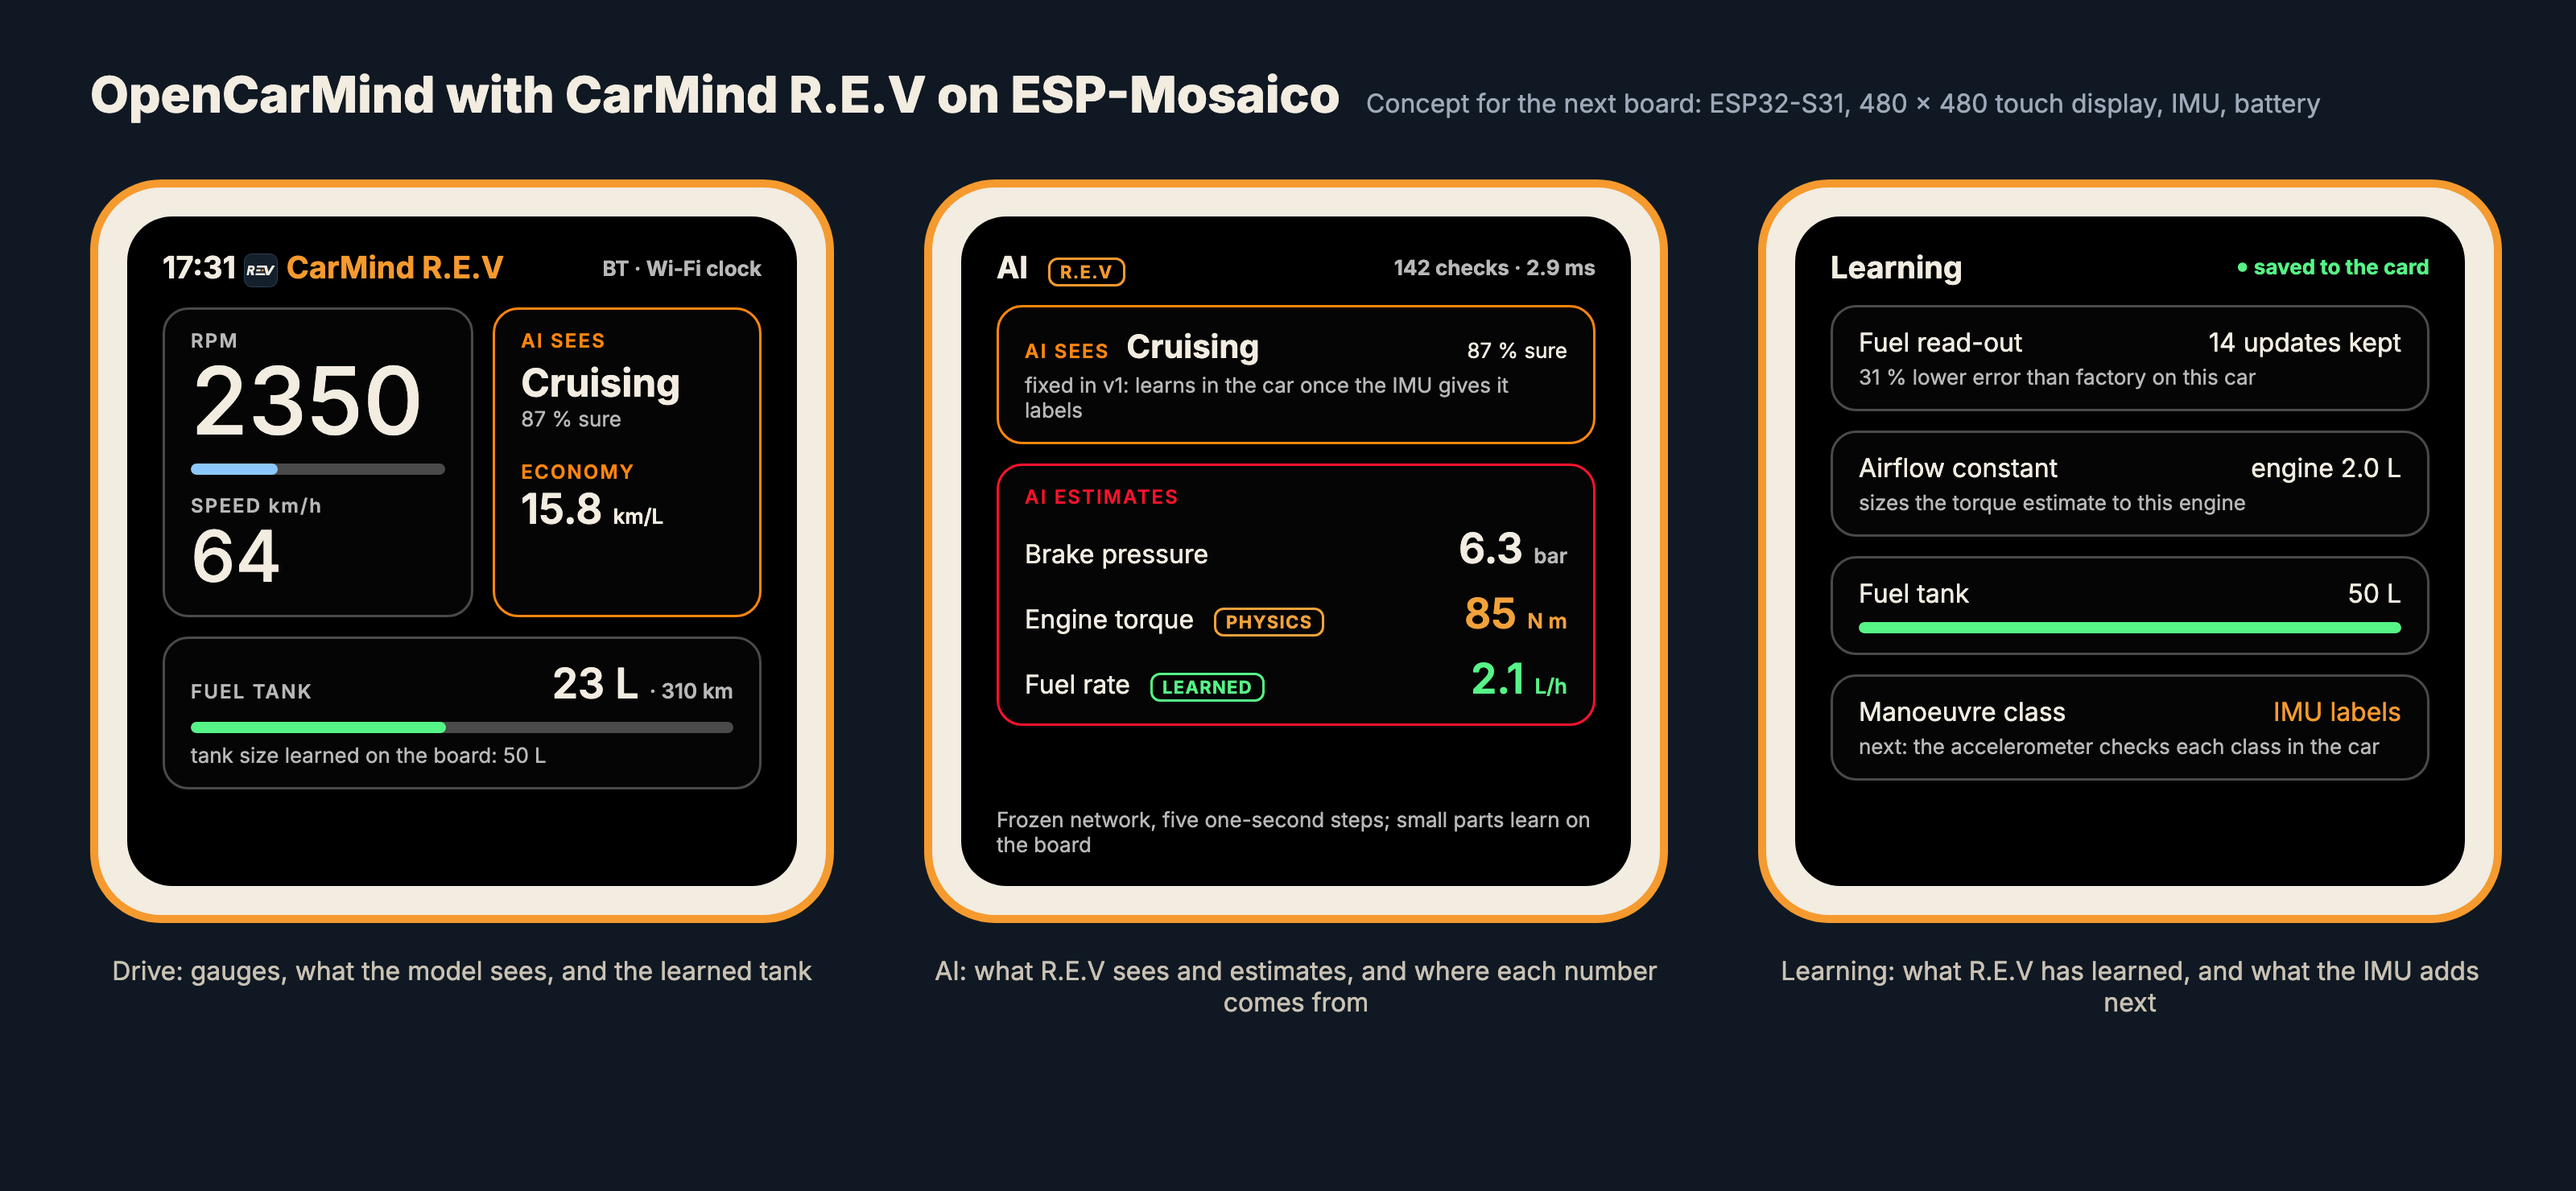
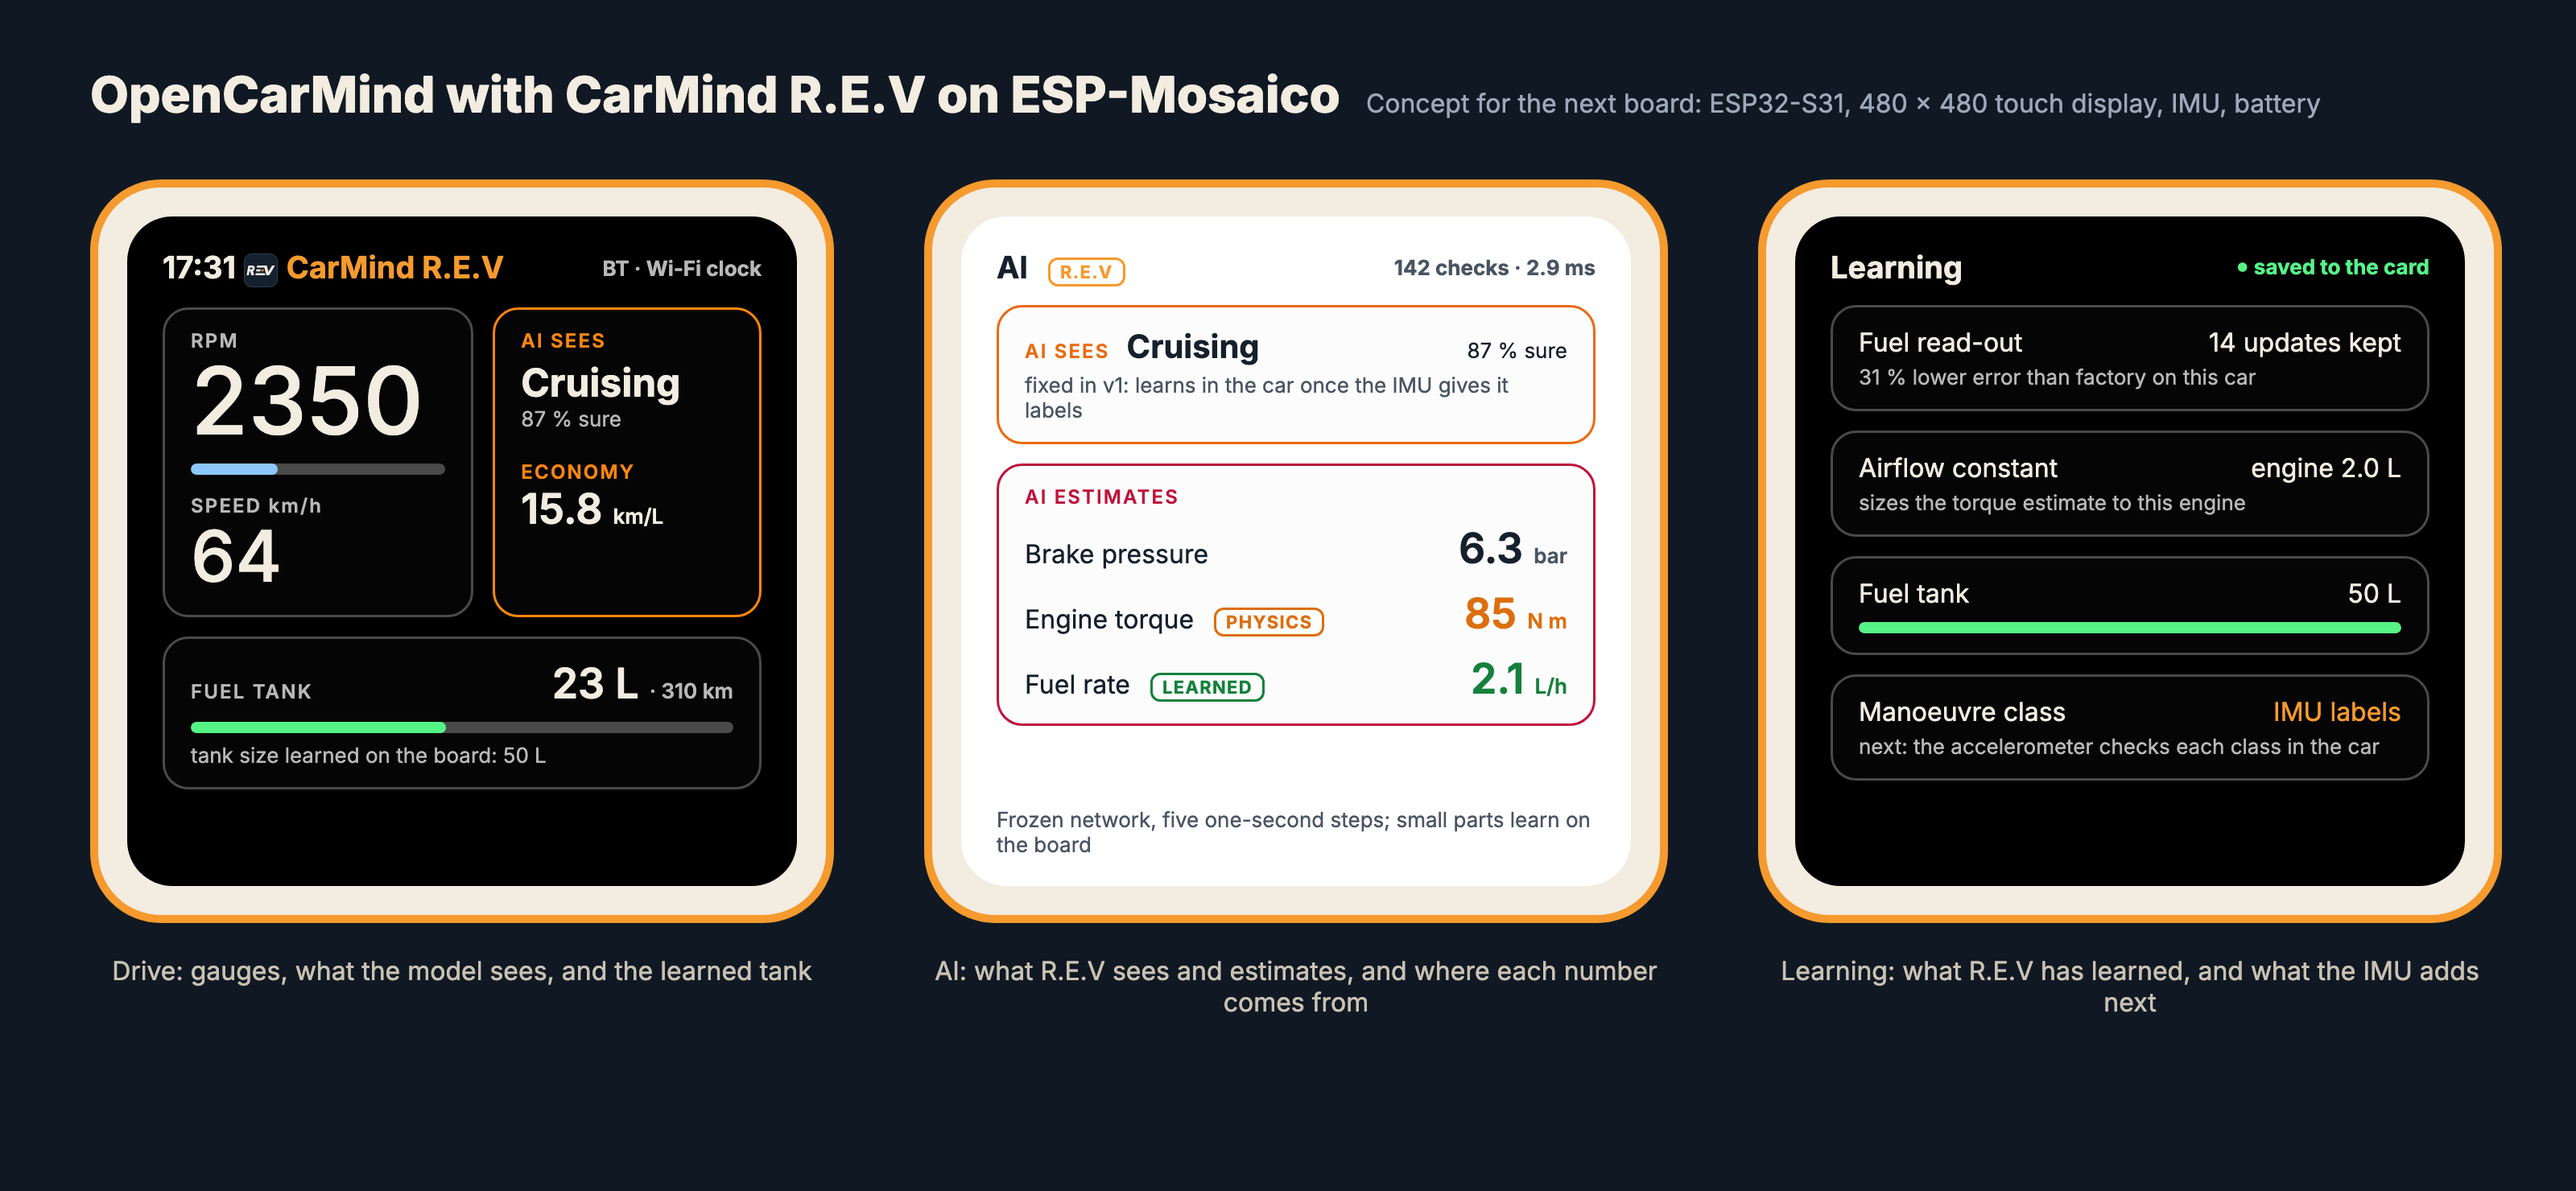
Mosaico concept: one image, screens in dark, light and dark
Claude-Session: https://claude.ai/code/session_01XTAvvNGWPbxk6e88iM5qjd

Changed region(s): [[0.375, 0.1554, 0.6562, 0.7459]]

diff --git a/docs/images/src/mosaico-rev.html b/docs/images/src/mosaico-rev.html
@@ -23,6 +23,28 @@ h1{margin:0;font-size:31px;font-weight:800;display:inline-block}
 .bar{height:7px;border-radius:4px;background:#4A4A4A;margin-top:8px;overflow:hidden}
 .bar i{display:block;height:100%;background:#8CC8FF;border-radius:4px}
 .tag{font-size:11px;font-weight:700;letter-spacing:.06em;border:1.5px solid currentColor;border-radius:6px;padding:1px 6px;margin-left:8px}
+
+/* the middle device in the light theme: the same rules, colours mapped as main/display.c does */
+.theme-light h1{margin:0;font-size:31px;font-weight:800;display:inline-block}
+.theme-light .scr{width:100%;height:100%;box-sizing:border-box;border-radius:28px;background:#FFFFFF;padding:20px 22px;text-align:left;position:relative}
+.theme-light .top{display:flex;justify-content:space-between;align-items:center;font-size:19px;font-weight:700}
+.theme-light .muted{color:#4A5563}
+.theme-light .small{font-size:13px}
+.theme-light .card{background:#FCFCFC;border:1.5px solid #8C8C8C;border-radius:16px;padding:12px 16px;margin-top:12px}
+.theme-light .light{border-color:#EA6A12}
+.theme-light .lbl{font-size:12px;letter-spacing:.09em;color:#4A5563;font-weight:600}
+.theme-light .light .lbl{color:#EA6A12}
+.theme-light .est{border-color:#BE123C}
+.theme-light .est .lbl{color:#BE123C}
+.theme-light .amber{color:#DD6E0E}
+.theme-light .green{color:#15803D}
+.theme-light .orange{color:#F59A2E}
+.theme-light .kv{display:flex;justify-content:space-between;align-items:baseline;margin-top:9px;font-size:16px}
+.theme-light .big{font-size:26px;font-weight:600}
+.theme-light .bar{height:7px;border-radius:4px;background:#8C8C8C;margin-top:8px;overflow:hidden}
+.theme-light .bar i{display:block;height:100%;background:#3B82F6;border-radius:4px}
+.theme-light .tag{font-size:11px;font-weight:700;letter-spacing:.06em;border:1.5px solid currentColor;border-radius:6px;padding:1px 6px;margin-left:8px}
+.theme-light .scr{color:#15202D}
 </style></head><body><div class="wrap">
 <h1>OpenCarMind with CarMind R.E.V on ESP-Mosaico</h1><span class="sub">Concept for the next board: ESP32-S31, 480 × 480 touch display, IMU, battery</span>
 <div class="row">
@@ -39,10 +61,10 @@ h1{margin:0;font-size:31px;font-weight:800;display:inline-block}
     <div class="bar"><i style="width:47%;background:#56F487"></i></div><div class="small muted" style="margin-top:6px">tank size learned on the board: 50 L</div></div>
 </div></div><div class="cap">Drive: gauges, what the model sees, and the learned tank</div></div>
 
-<div class="col"><div class="dev"><div class="scr">
+<div class="col"><div class="dev theme-light"><div class="scr">
   <div class="top"><span>AI <span class="tag orange">R.E.V</span></span><span class="small muted">142 checks · 2.9 ms</span></div>
   <div class="card light"><div class="kv" style="margin-top:0"><span><span class="lbl">AI SEES</span> <b style="font-size:20px;margin-left:6px">Cruising</b></span><span class="small">87 % sure</span></div>
-    <div class="small" style="color:#B8B8B8;margin-top:4px">fixed in v1: learns in the car once the IMU gives it labels</div></div>
+    <div class="small" style="color:#4A5563;margin-top:4px">fixed in v1: learns in the car once the IMU gives it labels</div></div>
   <div class="card est"><div class="lbl">AI ESTIMATES</div>
     <div class="kv"><span>Brake pressure</span><span class="big">6.3 <span class="small muted">bar</span></span></div>
     <div class="kv"><span>Engine torque <span class="tag amber">PHYSICS</span></span><span class="big amber">85 <span class="small">N m</span></span></div>

diff --git a/docs/index.html b/docs/index.html
@@ -213,8 +213,7 @@
 
   <section id="next">
     <h2>Next board: ESP-Mosaico with the ESP32-S31</h2>
-    <figure class="fig"><img src="images/mosaico-rev.png" alt="Concept: OpenCarMind with CarMind R.E.V on ESP-Mosaico, three 480 by 480 screens: drive gauges, what R.E.V sees and estimates, and what it has learned" loading="lazy" width="3200" height="1480"></figure>
-    <figure class="fig"><img src="images/mosaico-rev-light.png" alt="The same three Mosaico screens in the light theme: white screens, navy text, a blue accent, warm oranges and a coral red" loading="lazy" width="3200" height="1480"></figure>
+    <figure class="fig"><img src="images/mosaico-rev.png" alt="Concept: OpenCarMind with CarMind R.E.V on ESP-Mosaico, three 480 by 480 screens in the dark, light and dark themes: drive gauges, what R.E.V sees and estimates, and what it has learned" loading="lazy" width="3200" height="1480"></figure>
     <div class="narrow">
       <p>I have an ESP-Mosaico on order<sup><a href="#r4">[4]</a></sup>. Its ESP32-S31 has two RISC-V cores at 320 MHz with a 128-bit SIMD path, Wi-Fi 6, and Bluetooth 5.4 with both LE and Classic<sup><a href="#r5">[5]</a></sup>. For a car logger that means a 2.16-inch 480 × 480 AMOLED touch screen, Classic adapters such as the OBDLink MX+ within reach, CAN through TWAI and a transceiver, an IMU and magnetometer, a 65 mAh battery to finish the last save, and 16 MB of PSRAM<sup><a href="#r6">[6]</a>,<a href="#r7">[7]</a></sup>. It has no microSD slot, so drives would go to its 128 MB NAND.</p>
       <p>If you build with the ESP32, this is a good board to get, and the port goes faster with more people testing it. The Vision Combo Kit is 59 USD on the <a href="https://store.mosaico.ai/products/esp-mosaico">ESP-Mosaico Store</a> (pre-order, about 15 days to dispatch, as of 3 November 2026). Found something on yours? Open an issue or a pull request on <a href="https://github.com/AlveeeRahman/OpenCarMind">GitHub</a>.</p>

diff --git a/CHANGELOG.md b/CHANGELOG.md
@@ -5,7 +5,7 @@
 A new brand, a screen made for the LCD, and a visible power-off.
 
 - Page 1 labels the coolant CAR TEMP and page 5 labels the chip's own temperature SYS TEMP.
-- Light theme reworked for the LCD: pure white view with tiles drawn by their borders, brand navy text, a light blue accent, warm oranges in place of dark browns, a coral power bar, and vivid section colours on page 5. A light version of the Mosaico concept.
+- Light theme reworked for the LCD: pure white view with tiles drawn by their borders, brand navy text, a light blue accent, warm oranges in place of dark browns, a coral power bar, and vivid section colours on page 5. The Mosaico concept shows its three screens in the dark, light and dark themes.
 - **Brand**: a new night-drive palette (navy, warm ink, cobalt, amber) across the README, the website, the desktop app and its icons, and a sharper vector logo. Banner chips now read ESP32-S3, Bluetooth LE, TinyML, Desktop app and Active Learning.
 - **Screen colours for a backlit LCD**: the dark theme is pure black, because any tint in the background glows through the backlight. Text is 4.5:1 or more on every background in both themes. Page 5 gives each of its seven sections its own colour (classifier orange, estimator red), checked for normal and colour-blind vision.
 - **Power-off you can see**: holding BOOT shows "Turning off" while the drive is saved, then "Off, safe to unplug". The backlight fades and the LED stays dark in deep sleep.

diff --git a/README.md b/README.md
@@ -296,7 +296,7 @@ Not checked yet: R.E.V over many drives and other cars, the corrected R.E.V on t
 
 ## Next board: ESP-Mosaico with the ESP32-S31
 
-<p align="center"><img src="docs/images/mosaico-rev.png" width="900" alt="Concept: OpenCarMind with CarMind R.E.V on ESP-Mosaico, three 480 by 480 screens: drive, AI and learning"></p>
+<p align="center"><img src="docs/images/mosaico-rev.png" width="900" alt="Concept: OpenCarMind with CarMind R.E.V on ESP-Mosaico, three 480 by 480 screens in the dark, light and dark themes: drive gauges, what R.E.V sees and estimates, and what it has learned"></p>
 
 The next board is Espressif's ESP-Mosaico<sup>[[12]](#ref-12)</sup>, built on the ESP32-S31, with a 480 × 480 touch screen, Bluetooth Classic, a motion sensor and a small battery. I have one on order, and the concept above (a render with example values) shows CarMind R.E.V on it. The full board comparison is in the [detailed README](https://github.com/AlveeeRahman/OpenCarMind/blob/rev-c2/README.md#next-board-esp-mosaico-with-the-esp32-s31).
 
